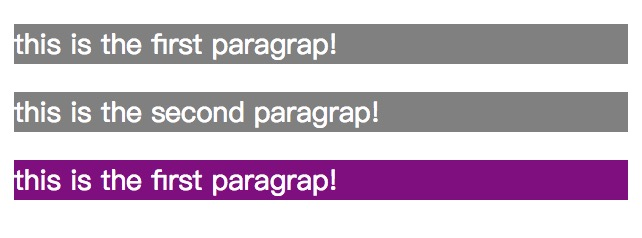
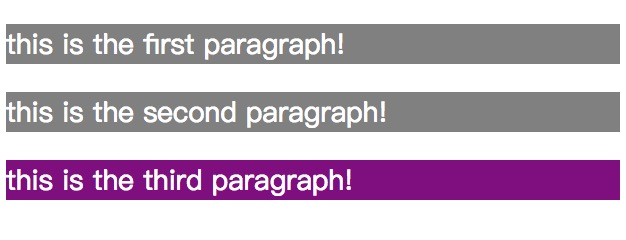
mod:拼写错误

Changed region(s): [[0.0, 0.6471, 1.0, 0.8529], [0.0, 0.3824, 1.0, 0.5588], [0.0, 0.0882, 1.0, 0.2941]]

diff --git a/doc/original/diffSomePseudoClass.md b/doc/original/diffSomePseudoClass.md
@@ -5,11 +5,11 @@
 html:
 
     <div>
-        <p>this is the first paragrap!</p>
-        <p>this is the second paragrap!</p>
+        <p>this is the first paragraph!</p>
+        <p>this is the second paragraph!</p>
     </div> 
     <div>
-        <p>this is the first paragrap!</p>
+        <p>this is the third paragraph!</p>
     </div> 
 
 css:  
